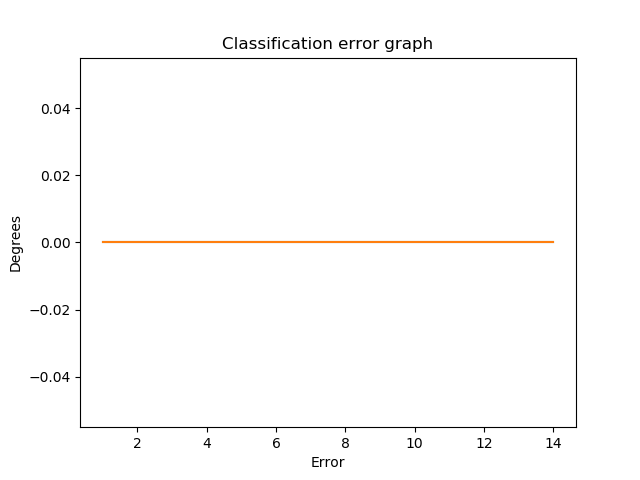
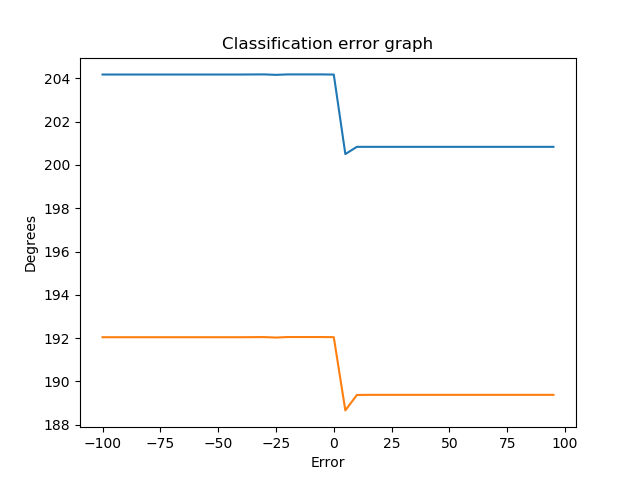
Ridge regression implemented but doesn't seem very useful from testing.

diff --git a/poly_reg.py b/poly_reg.py
@@ -3,7 +3,8 @@ import pandas as pd
 import csv_reader as reader
 from sklearn.linear_model import LinearRegression
 from sklearn.preprocessing import PolynomialFeatures
-
+from sklearn.linear_model import Ridge
+from sklearn.linear_model import Lasso
 
 '''
 TODO: Implement RSS, and MAE, modify poly kfold to pass a function.
@@ -45,10 +46,11 @@ def poly_reg_kfold_cv(training_input, training_output, p, k_folds):
     return np.mean(train_error), np.mean(cv_error)
 
 
-def poly_kfold_cv(training_input, training_output, p, k_folds):
+def ridge_kfold_cv(training_input, training_output, a, k_folds):
     train_error = []
     cv_error = []
-
+    model = Ridge(alpha=a)
+    number_of_fold_indexes = int(len(training_input) / k_folds)
     for i in range(k_folds):
         index_start = int(i * number_of_fold_indexes)
         index_end = int(len(training_input) - (number_of_fold_indexes * (k_folds - i - 1)))
@@ -58,16 +60,13 @@ def poly_kfold_cv(training_input, training_output, p, k_folds):
         validation_y = validation_y.drop(validation_y.index[number_of_fold_indexes:len(validation_y)])
         training_set_x = training_input.drop(training_input.index[index_start:index_end])
         training_set_y = training_output.drop(training_output.index[index_start:index_end])
-        x_transform = poly.fit_transform(training_set_x)
-        validation_transform = poly.fit_transform(validation_x)
-        lin_reg.fit(x_transform, training_set_y)
-        train_values = lin_reg.predict(x_transform)
-        test_values = lin_reg.predict(validation_transform)
-        for l in range(len(train_values)):
-            train_error.append(abs(train_values[l] - training_set_y.tolist()[l]))
-        for l in range(len(test_values)):
-            cv_error.append(abs(test_values[l] - validation_y.tolist()[l]))
+        model.fit(training_set_x, training_set_y)
+        cv_predict = model.predict(validation_x)
+        train_predict = model.predict(training_set_x)
+        train_error = (abs(train_predict - training_set_y))
+        cv_error = (abs(cv_predict - validation_y))
     return np.mean(train_error), np.mean(cv_error)
+
 
 def poly_reg_predict(input_x, training_input, training_output, degree):
     lin_reg = LinearRegression(fit_intercept=True, normalize=False)

diff --git a/car_insurance_predictor.py b/car_insurance_predictor.py
@@ -16,27 +16,31 @@ test_y = y_claimed_money_categorical.loc[0:test_indices]
 valid_x = x_claimed_money_categorical.drop(x_claimed_money_categorical.index[test_indices:len(x_claimed_money_categorical)])
 valid_y = y_claimed_money_categorical.drop(y_claimed_money_categorical.index[test_indices:len(x_claimed_money_categorical)])
 kfolds = [2, 3, 4, 5, 6, 7, 8, 9, 10]
-n_neighbors = [8]
+n_neighbors = range(-100, 100, 5)
 
 mae = []
 train_error = []
 cv_error = []
-# for k in n_neighbors:
-#     te, cve = pg.poly_kfold_cv(x_claimed_money_categorical, y_claimed_money_categorical, k, 5)
-#     print("Training Error", te, "CV Error", cve, "K neighbors:", k)
-#     train_error.append(te)
-#     cv_error.append(cve)
-# dv.plot_line_graph(train_error, cv_error, n_neighbors, "Error", "Degrees", "Classification error graph")
-# print(test_set)
-print(len(valid_x))
-prediction_set, claim_collection = knn.knn_filter(x_test_set, 1)
-predictions = pg.poly_reg_predict(x_test_set, x_claimed_money_categorical, y_claimed_money_categorical, 1)
+for k in n_neighbors:
+    te, cve = pg.ridge_kfold_cv(x_claimed_money_categorical, y_claimed_money_categorical, 10**k, 5)
+    print("Training Error", te, "CV Error", cve, "K neighbors:", k)
+    train_error.append(te)
+    cv_error.append(cve)
+dv.plot_line_graph(train_error, cv_error, n_neighbors, "Error", "Degrees", "Classification error graph")
 
-j = 0
-for i in claim_collection:
-    if i == 1:
-        claim_collection[i] = predictions[j]
-        j += 1
 
-print(len(predictions), len(valid_y))
-print(np.mean(abs(claim_collection-valid_y)))
+# prediction_set, claim_collection = knn.knn_filter(x_test_set, 1)
+# predictions = pg.poly_reg_predict(x_test_set, x_claimed_money_categorical, y_claimed_money_categorical, 1)
+# j = 0
+# for i in claim_collection:
+#     if i == 1:
+#         if predictions[j] < 0:
+#             predictions[j] = 0
+#         claim_collection[i] = predictions[j]
+#         j += 1
+#     print(claim_collection[i])
+# print(len(predictions), len(valid_y))
+#
+#
+# print(np.mean(abs(claim_collection-valid_y)))
+

diff --git a/kNN_classification.py b/kNN_classification.py
@@ -21,7 +21,6 @@ def knn_classifier(claimed_x, claimed_y, r, k_folds):
     for i in range(k_folds):
         claim_train = []
         claim_validation = []
-
         training_incorrect = 0
         cv_incorrect = 0
         index_start = int(i * number_of_fold_indexes)
